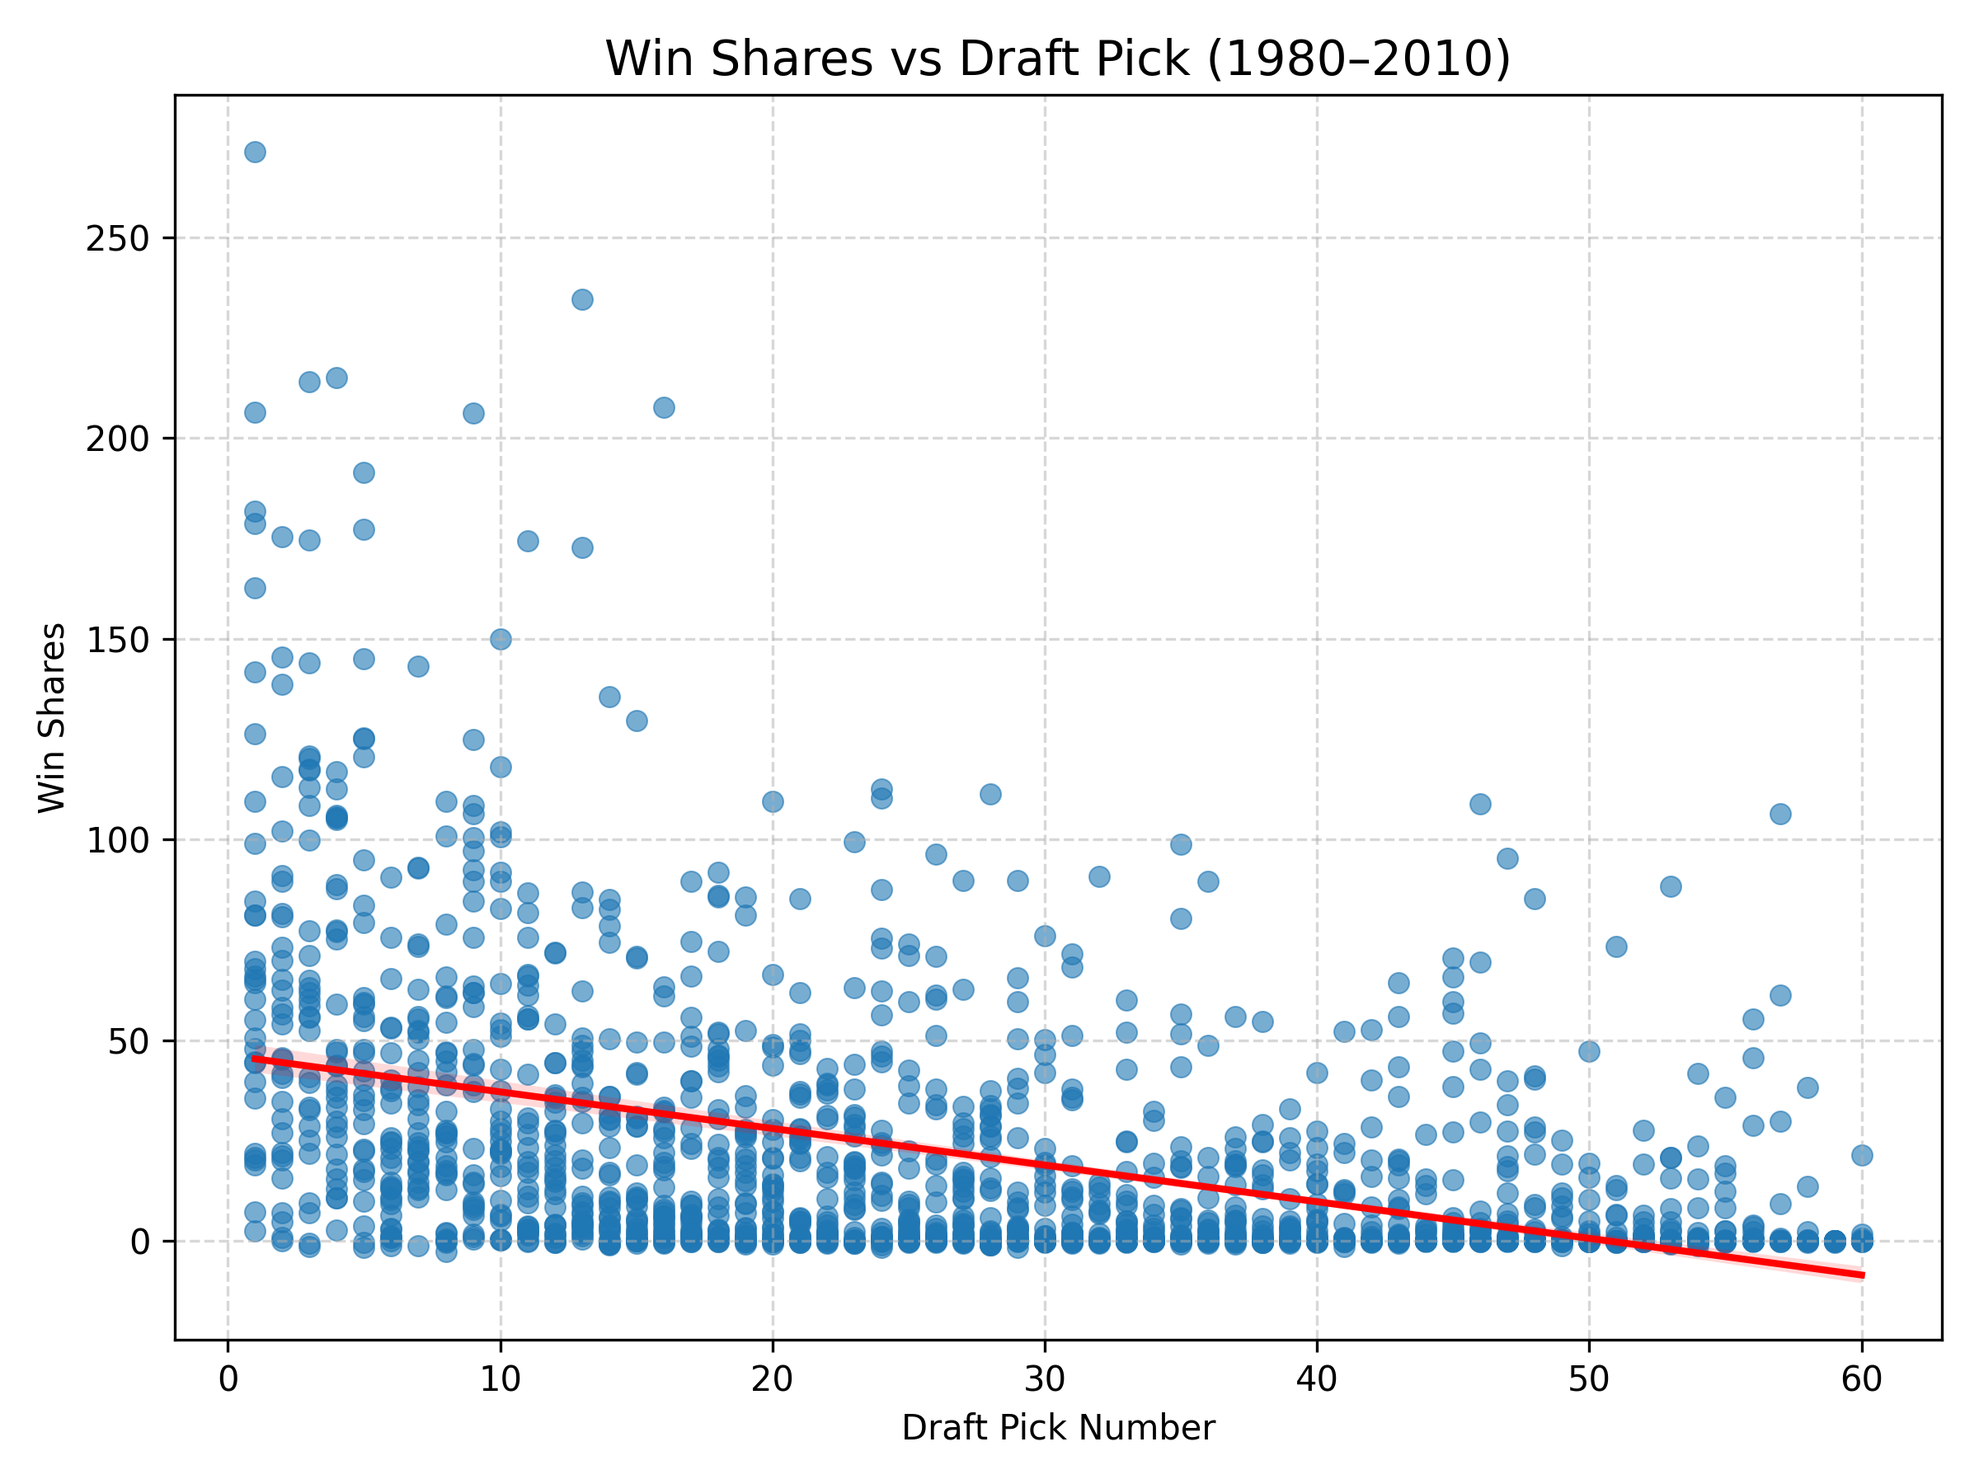
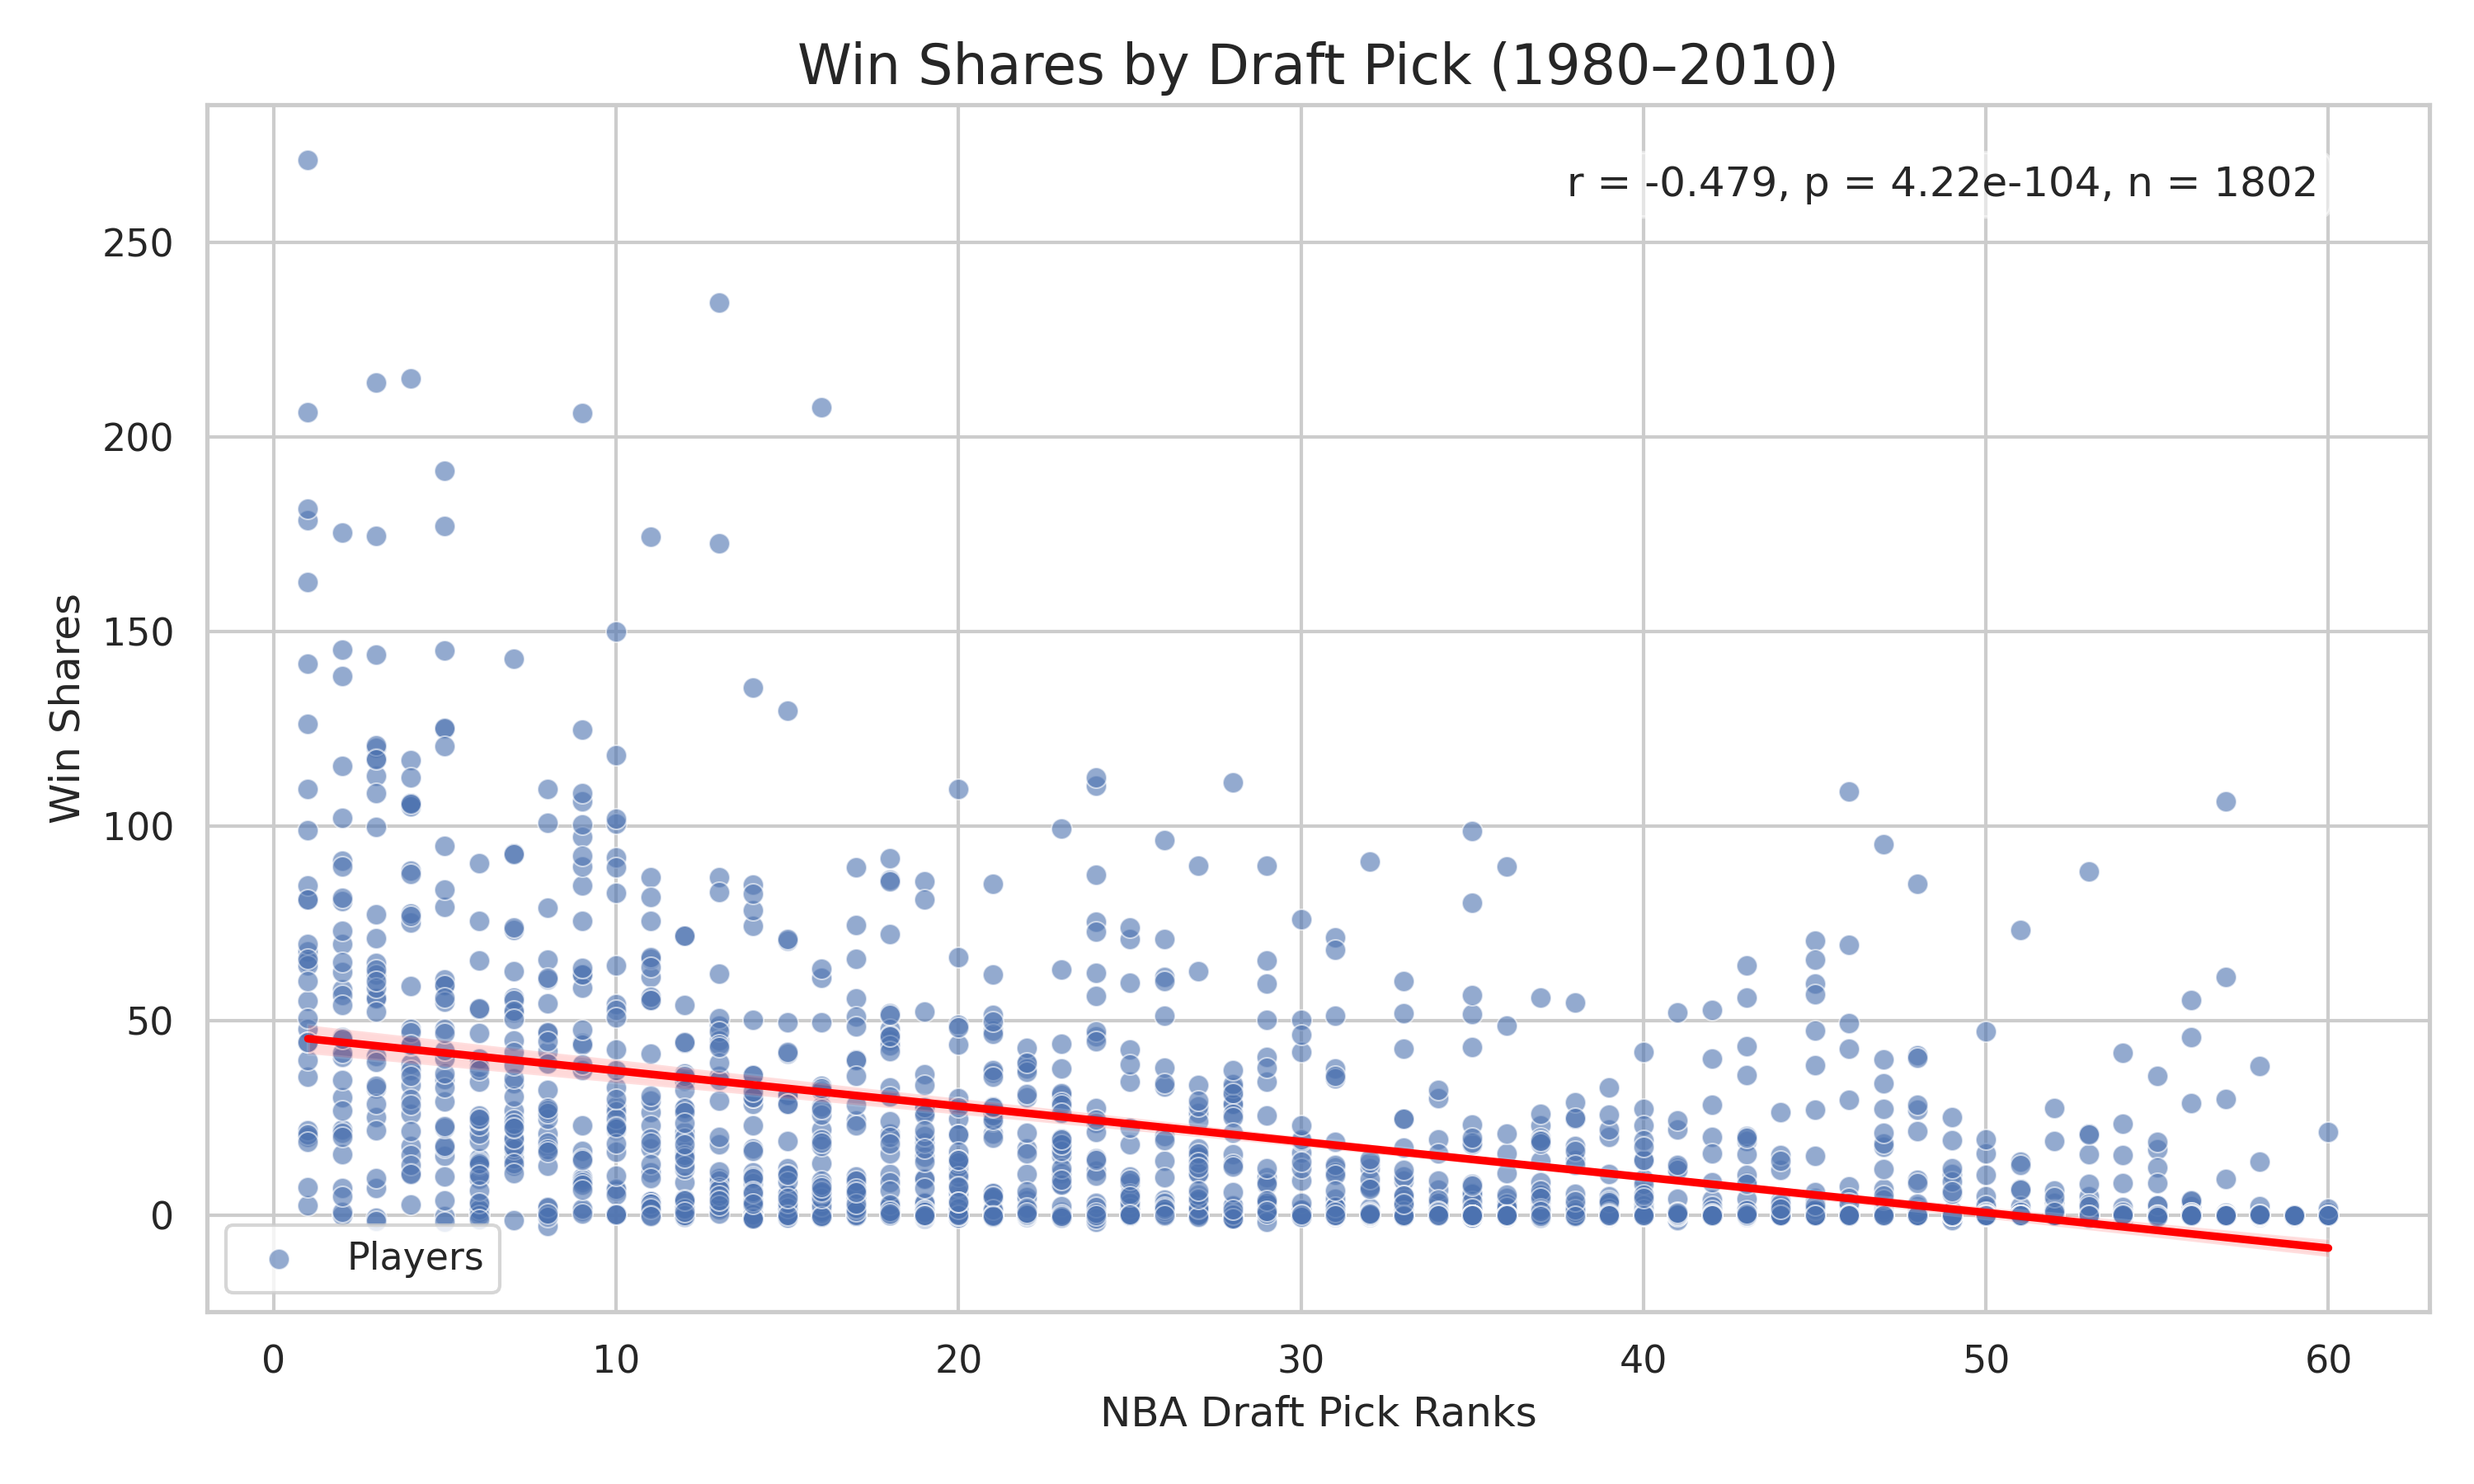
use a branch, modify ws_pick.py to make a better scatter plot

diff --git a/analysis/ws_pick.py b/analysis/ws_pick.py
@@ -4,6 +4,7 @@ import pandas as pd
 import seaborn as sns
 import matplotlib.pyplot as plt
 import statsmodels.api as sm
+from scipy.stats import pearsonr
 
 # 1. Folder setup 
 base_dir = os.path.dirname(os.path.abspath(__file__))
@@ -11,7 +12,7 @@ input_path = os.path.join(base_dir, "..", "artifacts", "nba_draft_1980_2010_clea
 output_dir = os.path.join(base_dir, "results")
 os.makedirs(output_dir, exist_ok=True)
 
-# 2. load data
+# 2. load cleaned NBA draft data
 df = pd.read_csv(input_path)
 
 # 3. Specify column names
@@ -31,17 +32,30 @@ model = sm.OLS(y, X).fit()
 with open(os.path.join(output_dir, "ws_pick.txt"), "w", encoding="utf-8") as f:
     f.write(model.summary().as_text())
 
-# 7. Scatter plot + regression line
-plt.figure(figsize=(8,6))
-sns.scatterplot(data=df_clean, x=pick_col, y=ws_col, alpha=0.6, edgecolor=None)
-sns.regplot(data=df_clean, x=pick_col, y=ws_col, scatter=False, color="red", line_kws={'linewidth': 2})
-plt.title("Win Shares vs Draft Pick (1980–2010)", fontsize=14)
-plt.xlabel("Draft Pick Number")
+# 7. Calculate Pearson correlation coefficient and p-value
+r, pval = pearsonr(df_clean["Pk"], df_clean["Advanced_WS"])
+n = len(df_clean)  # Number of observations
+
+# 8. Set plot style and create scatterplot with regression line
+sns.set(style="whitegrid")
+plt.figure(figsize=(10, 6))
+sns.scatterplot(x="Pk", y="Advanced_WS", data=df, alpha=0.6, label="Players")
+sns.regplot(x="Pk", y="Advanced_WS", data=df, scatter=False, color="red", line_kws={"label": "Linear Fit"})
+
+# 9. Annotate plot with correlation statistics
+stats_text = f"r = {r:.3f}, p = {pval:.3g}, n = {n}"
+plt.text(0.95, 0.95, stats_text, transform=plt.gca().transAxes,
+         fontsize=12, verticalalignment='top', horizontalalignment='right',
+         bbox=dict(boxstyle="round", facecolor="white", alpha=0.5))
+
+# 10. Add title, axis labels, and legend
+plt.title("Win Shares by Draft Pick (1980–2010)", fontsize=16)
+plt.xlabel("NBA Draft Pick Ranks")
 plt.ylabel("Win Shares")
-plt.grid(True, linestyle="--", alpha=0.5)
+plt.legend()
 plt.tight_layout()
 
-# 8. Save plot
+# 11. Save plot
 plt.savefig(os.path.join(output_dir, "ws_pick.png"), dpi=300)
 plt.close()
 
